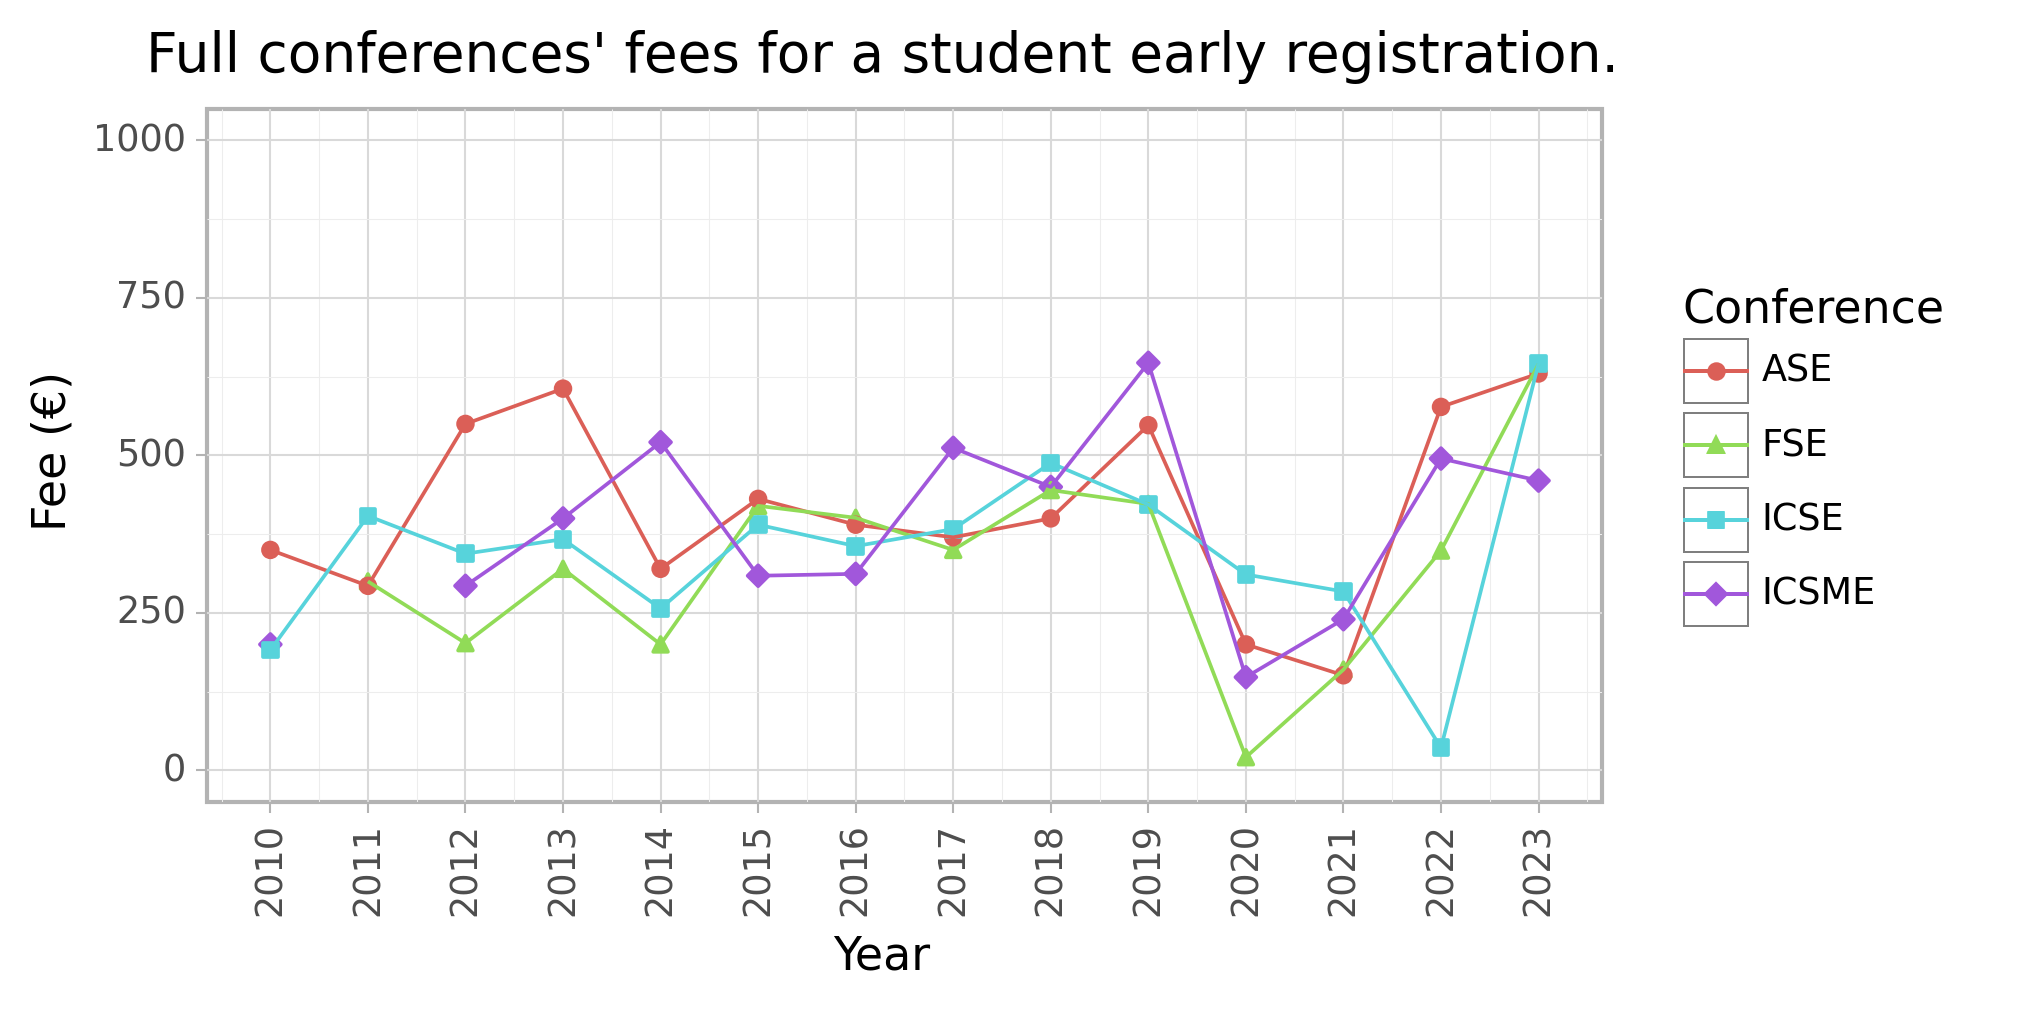
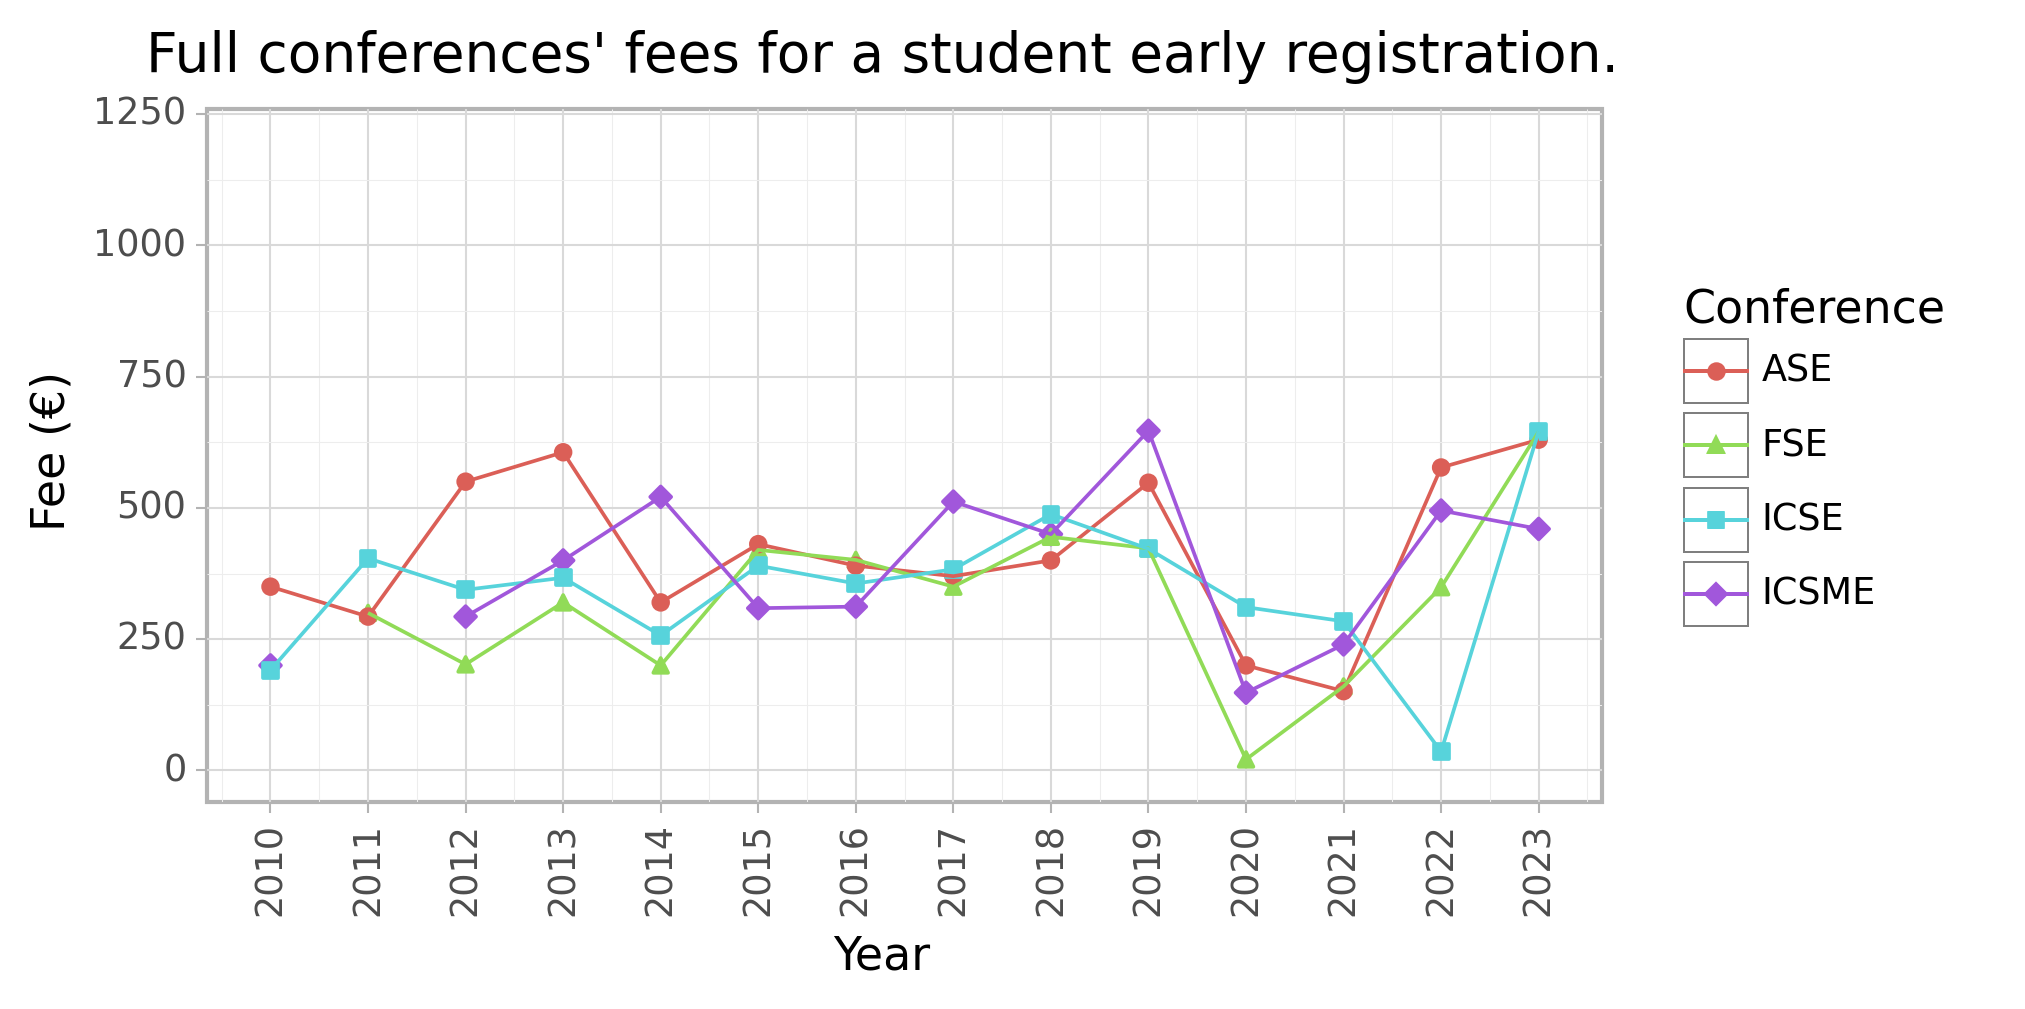
fix: ylim increased to 1200 to enable the display of FSE 2023.

diff --git a/se_prices.py b/se_prices.py
@@ -14,7 +14,7 @@ def plot_fees(fees, title, y_axis, years, filename):
         pn.geom_point() + \
         pn.geom_line() + \
         pn.labs(title = title, x = 'Year', y = 'Fee (€)') + \
-        pn.ylim(0, 1000) + \
+        pn.ylim(0, 1200) + \
         pn.theme_light() + \
         pn.theme(axis_text_x = pn.element_text(rotation = 90)) + \
         pn.scale_x_continuous(breaks = years) + \
